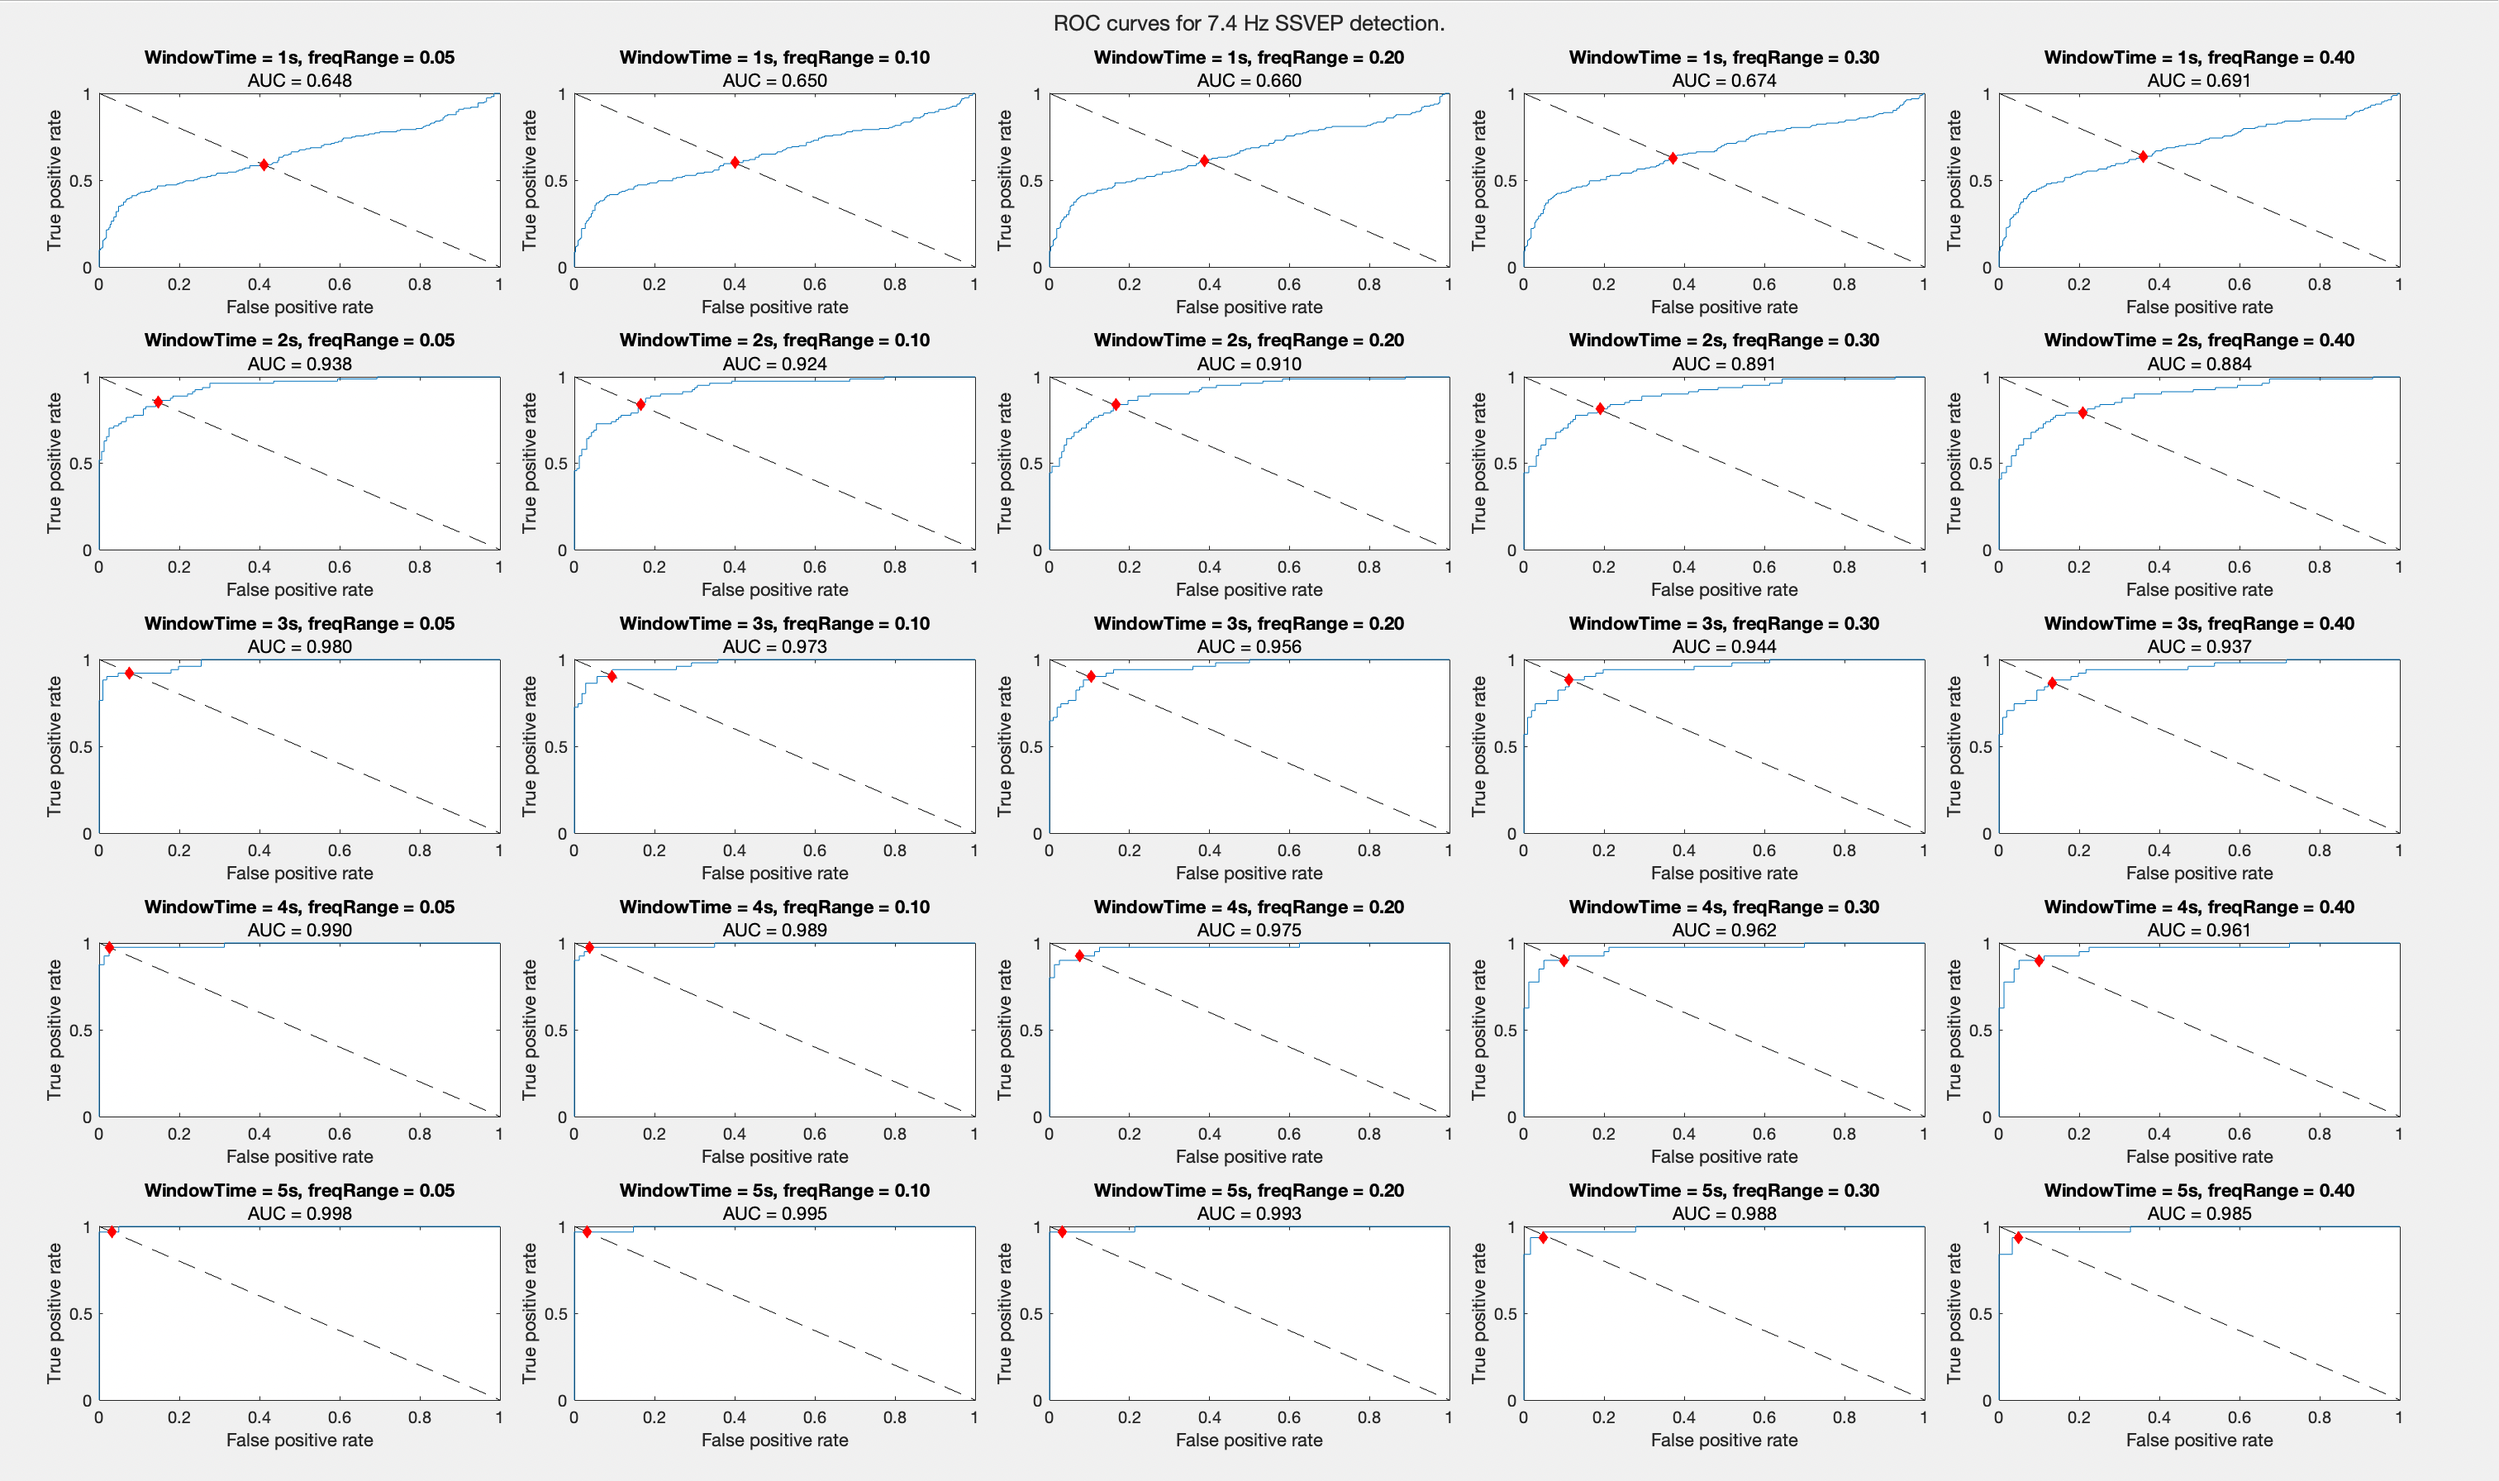
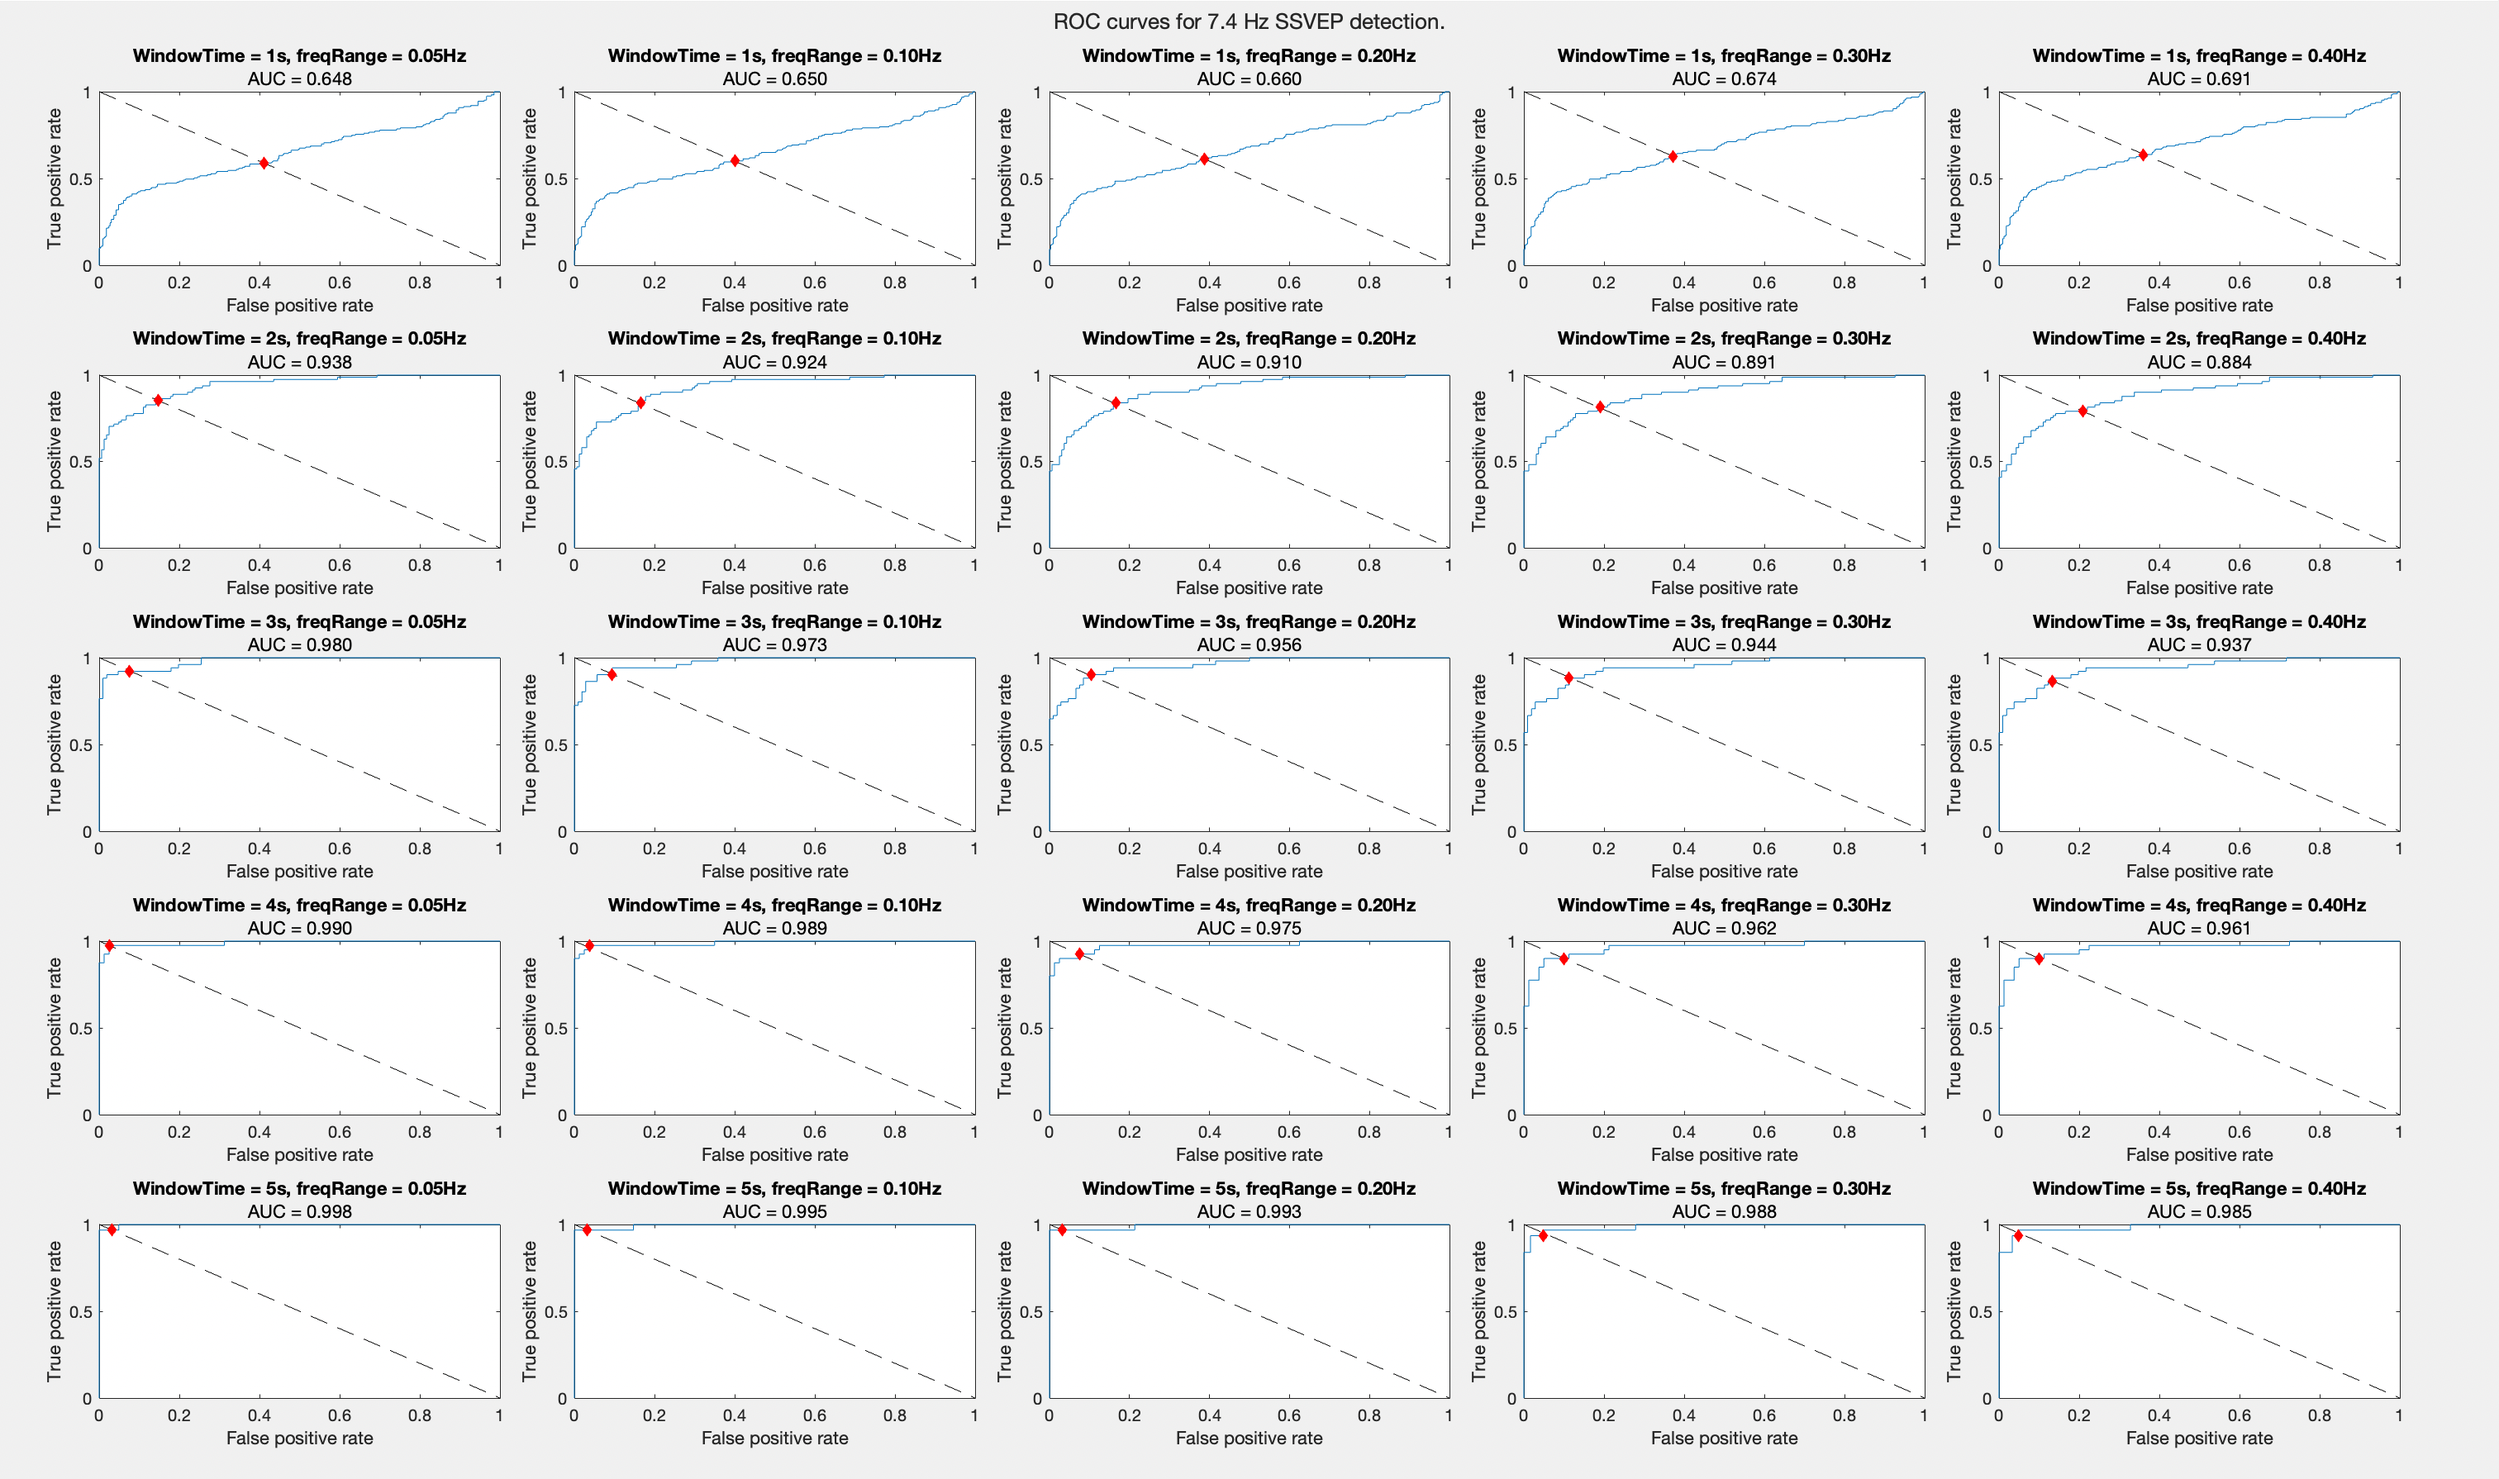
added func description and new images

diff --git a/createDataset.m b/createDataset.m
@@ -1,4 +1,16 @@
 function [X,Y,filenames] = createDataset(targetFreq, windowTime, freqRange, fs)
+% Creates arrays X and Y.
+% X contains the maximum value around 'targetFreq' of the FFT of the 
+% windowed signals present in my dataset.
+% The parameter 'freqRange' specifies the range of values of
+% the FFT to consider while searching for the maximum, i.e.
+% (targetFreq-freRange, targetFreq+freRange).
+%
+% Y is a binary array of labels with the same length of X.
+% At a given index 'i', it contains 1 if the value X[i] is extracted from a
+% signal where I was looking at a visual stimuli of frequency 'targetFreq',
+% 0 otherwise.
+
     windowSize = windowTime * fs;
     dataDir = "data/my_data/";
     dataFiles = dir(dataDir);
@@ -47,9 +59,6 @@ function [X,Y,filenames] = createDataset(targetFreq, windowTime, freqRange, fs)
 
             % Add zero padding
             window = cat(1, window, zeros(50*fs, 1));
-            
-            % Filter the signal
-%             window = bandpass(window, [4 10], fs);
 
             % Populate X
             [coeff, ~] = findTargetFreq(window, targetFreq, fs, freqRange);
@@ -60,21 +69,6 @@ function [X,Y,filenames] = createDataset(targetFreq, windowTime, freqRange, fs)
                     && targetFreq == 7.4)
                  Y(idx) = 1;
             end
-
-%             if nClasses == 2
-%                 if (fileName(1) == '6' && targetFreq == 6 || ...
-%                         fileName(1) == '7' && targetFreq == 7.4)
-%                     Y(idx) = 1;
-%                 end
-%             end
-% 
-%             if nClasses == 3
-%                 if (fileName(1) == '6' && targetFreq == 6)
-%                     Y(idx) = 1;
-%                 elseif (fileName(1) == '7' && targetFreq == 7.4)
-%                     Y(idx) = 2;
-%                 end
-%             end
             
             filenames(idx) = fileName;
             idx = idx + 1;

diff --git a/ROC_curves.m b/ROC_curves.m
@@ -21,7 +21,7 @@ for targetFreq = targetFreqs
             
             nexttile
             plot(fpr, tpr)
-            title(sprintf("WindowTime = %ds, " + "freqRange = %.2f", ...
+            title(sprintf("WindowTime = %ds, " + "freqRange = %.2fHz", ...
                 windowTime, freqRange), sprintf("AUC = %.3f", AUC))
             xlabel('False positive rate')
             ylabel('True positive rate')
